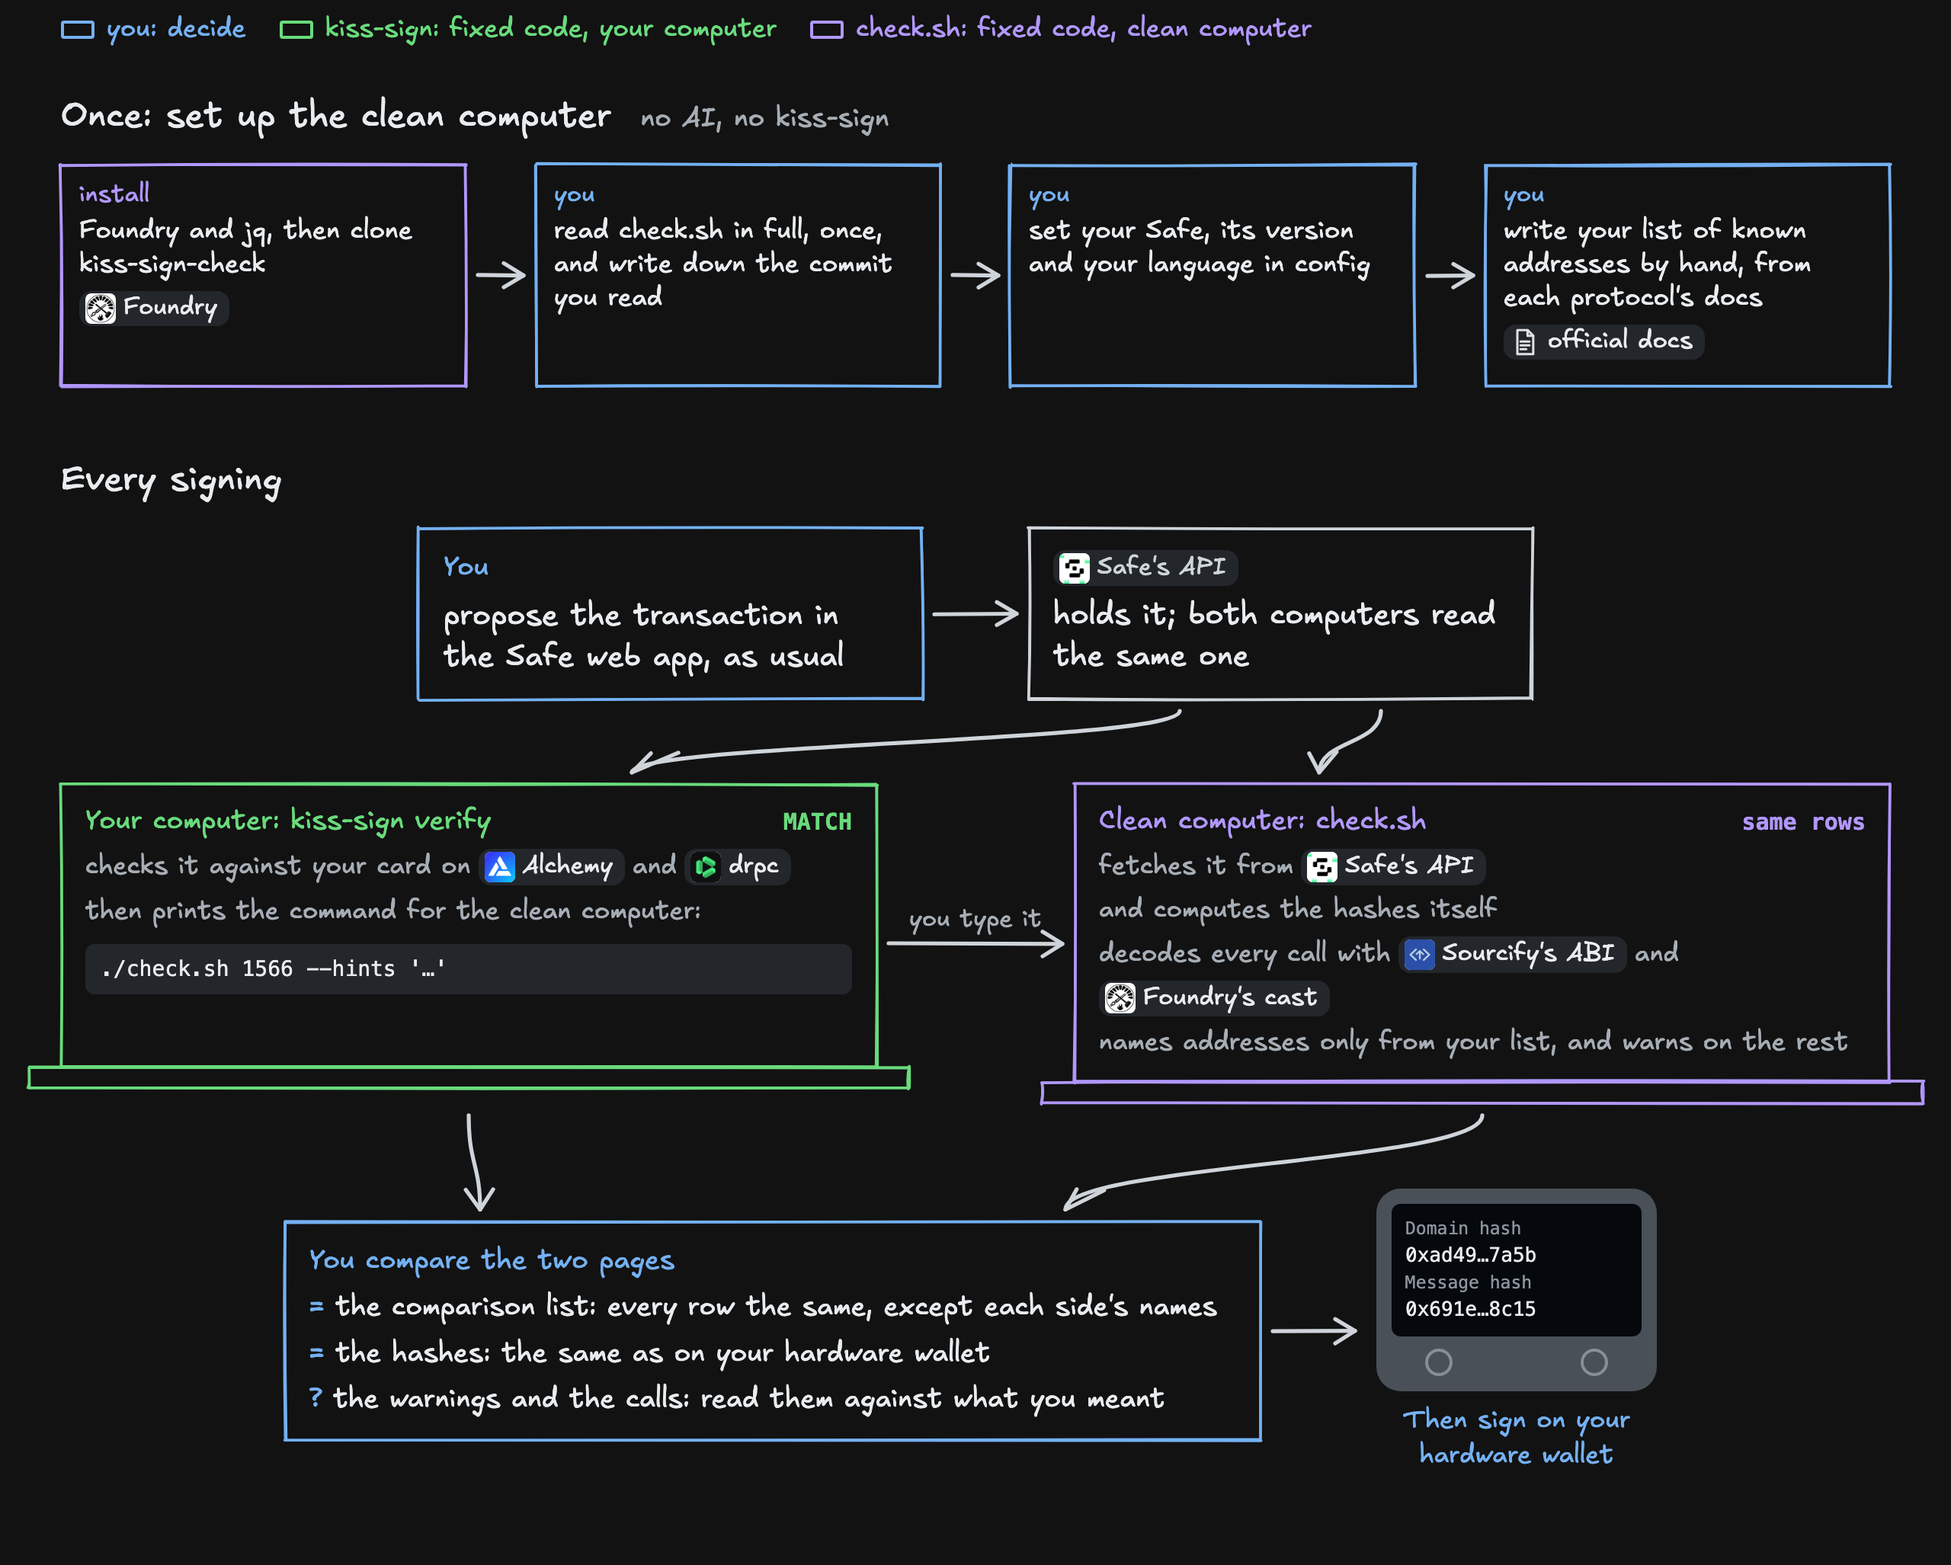
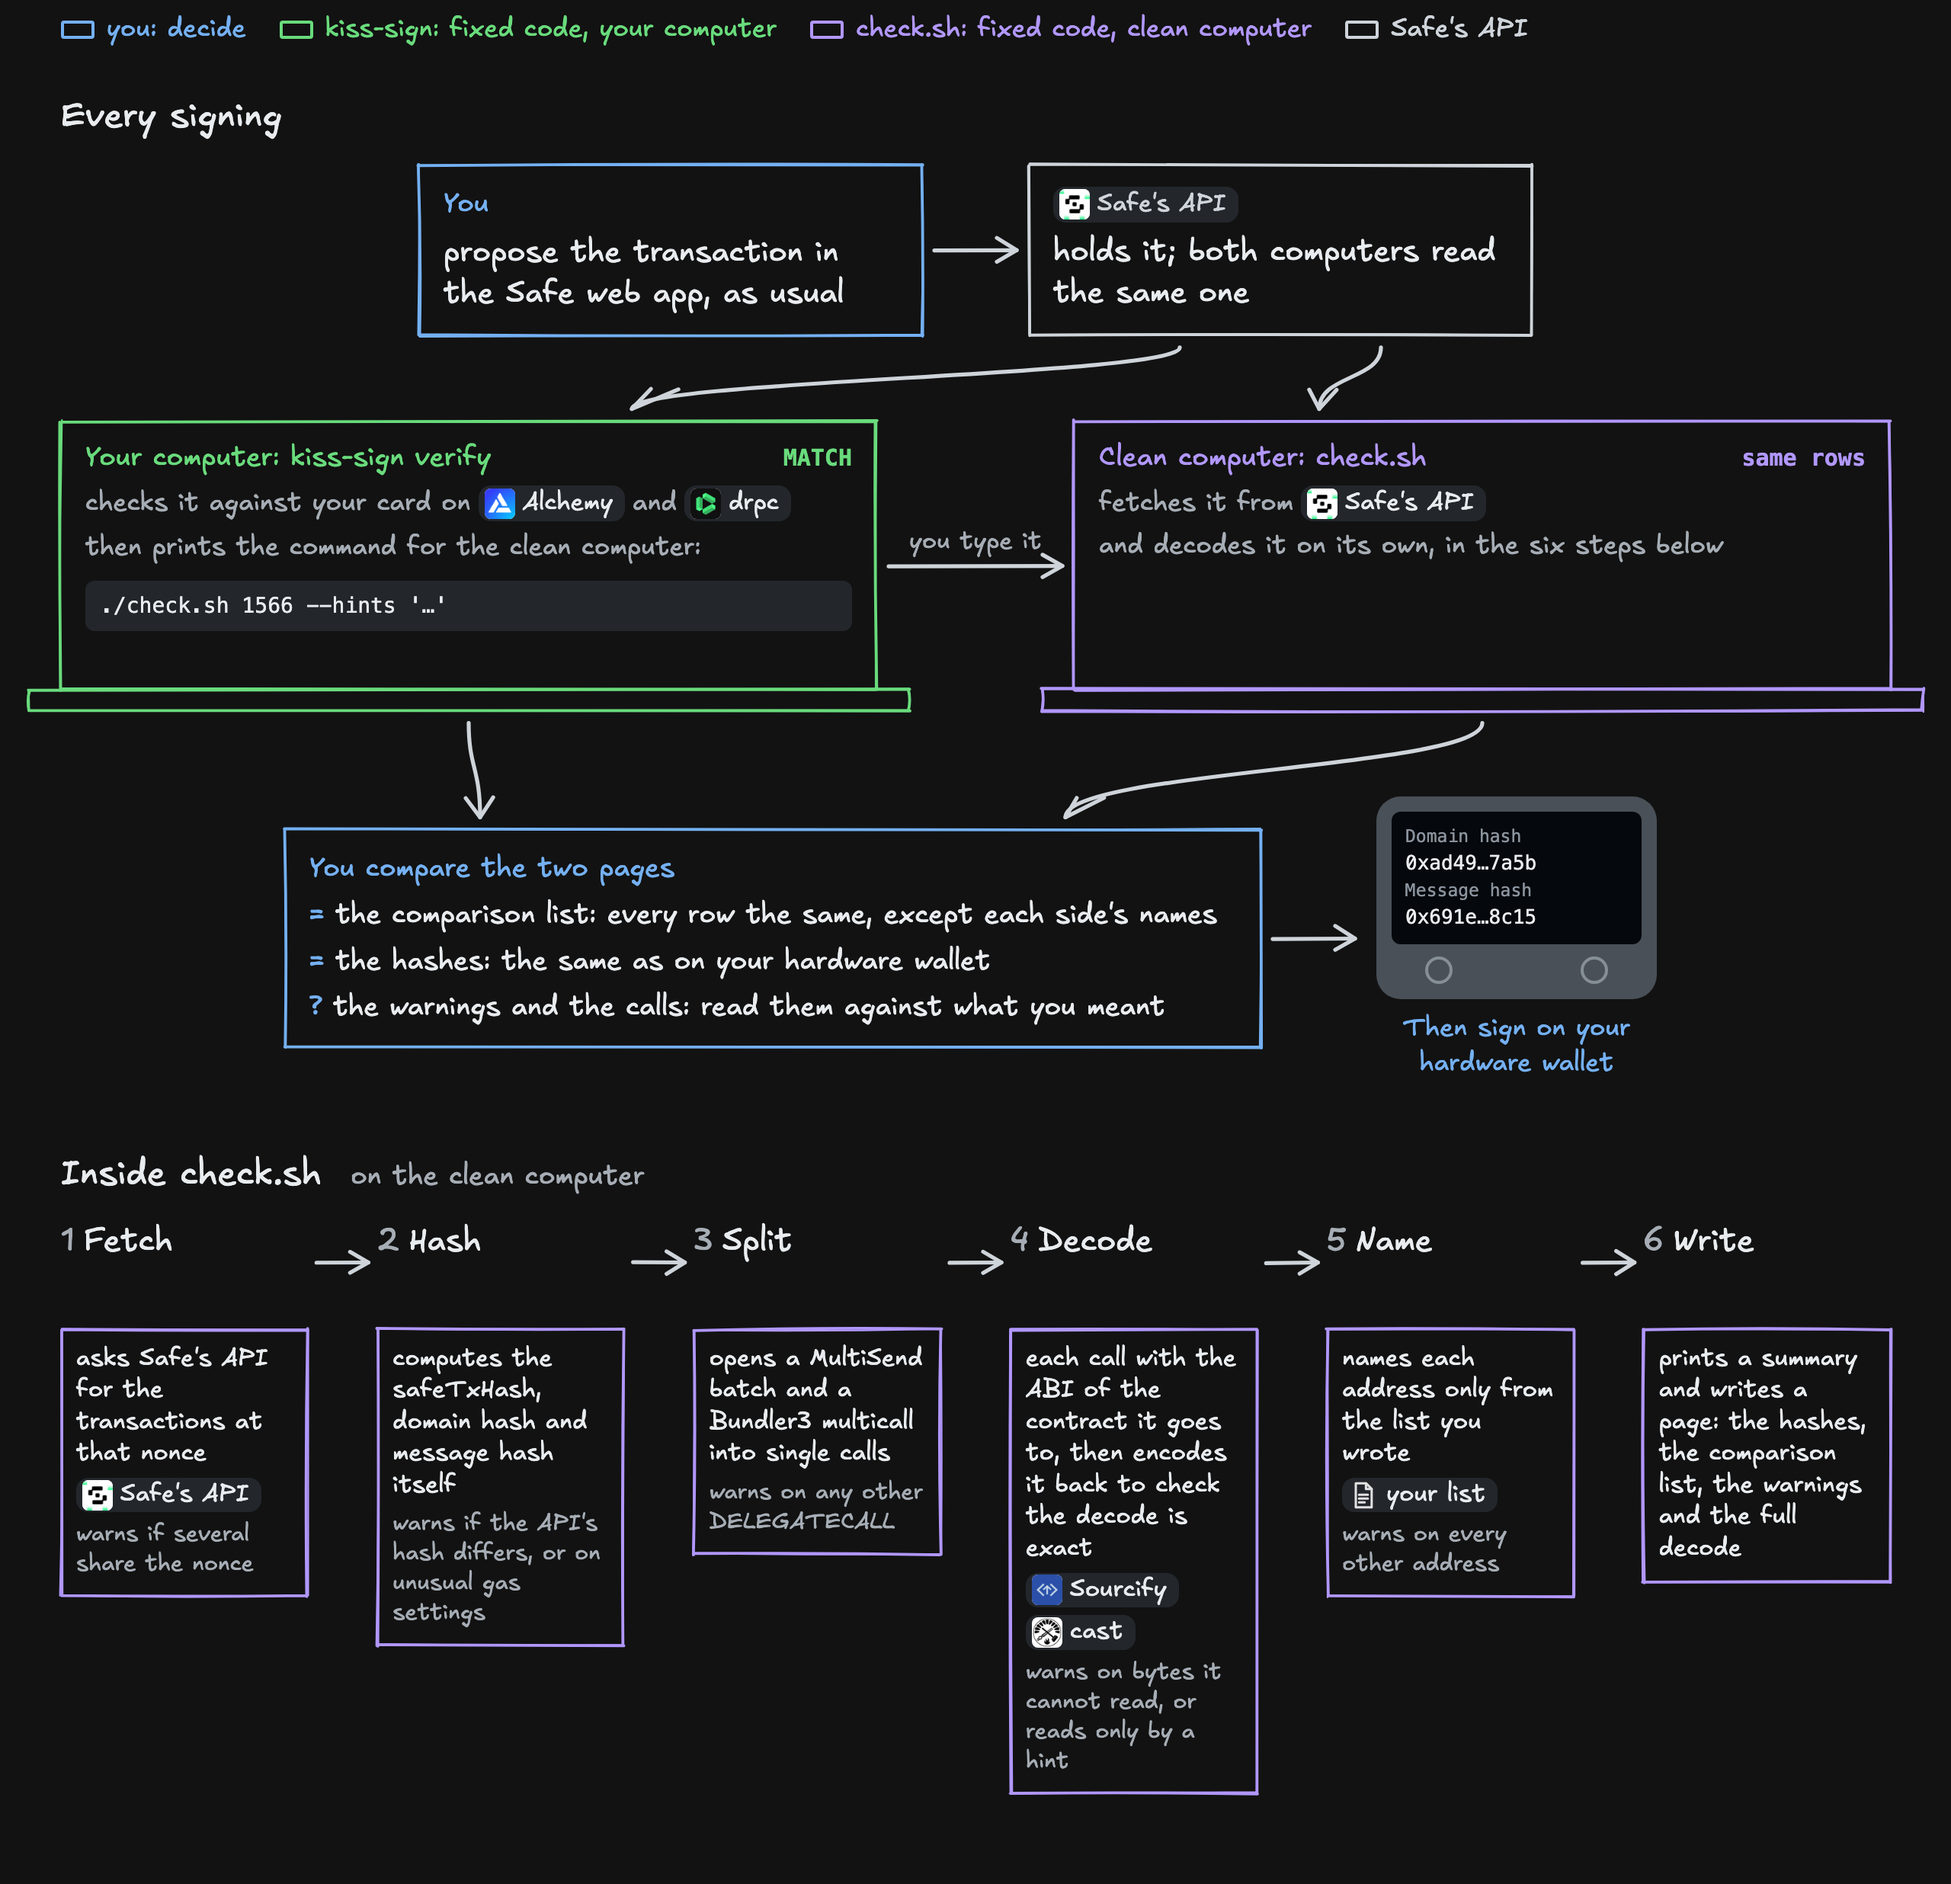
Overview: drop the setup row, add the six steps inside check.sh
Claude-Session: https://claude.ai/code/session_019EpkRikTD1KbjKp9L1wtSS

diff --git a/docs/diagrams/overview.html b/docs/diagrams/overview.html
@@ -40,10 +40,6 @@
   .lg img { width: 20px; height: 20px; border-radius: 4px; background: #fff; object-fit: contain; }
   :root.dark .lg img.mono-logo { filter: invert(1); background: transparent; }
 
-  .setup { display: grid; grid-template-columns: repeat(4, minmax(0, 1fr)); gap: 46px; }
-  .setup .sk { font-size: 17px; line-height: 1.3; padding: 10px 12px 12px; }
-  .setup .who { font-size: 16px; margin-bottom: 2px; }
-  .setup .lg { margin-top: 6px; }
 
   .gap { height: 46px; }
   .top { display: flex; justify-content: center; align-items: center; gap: 70px; }
@@ -62,6 +58,12 @@
   .compare li::before { content: "= "; color: var(--you); }
   .compare li.read::before { content: "? "; }
 
+  .chain { display: grid; grid-template-columns: repeat(6, minmax(0, 1fr)); gap: 46px; }
+  .chain .t { font-size: 21px; line-height: 1.2; min-height: 52px; margin-bottom: 18px; }
+  .chain .n { color: var(--muted); margin-right: 6px; }
+  .chain .sk { font-size: 16px; line-height: 1.3; padding: 9px 10px 11px; display: grid; gap: 5px; }
+  .chain .logos { display: flex; gap: 5px; flex-wrap: wrap; }
+  .out { color: var(--muted); font-size: 15px; }
   .wallet { width: 196px; display: grid; justify-items: center; }
   .dev { width: 184px; background: var(--dev); border-radius: 16px; padding: 10px; }
   .dev .s { background: var(--screen); color: #e9ecef; border-radius: 6px; padding: 8px 9px; font: 13px/1.45 ui-monospace, Menlo, monospace; }
@@ -73,17 +75,8 @@
 <script>if (location.search.includes('dark')) document.documentElement.classList.add('dark');</script>
 </head>
 <body>
-  <div class="legend"><span class="you"><i></i>you: decide</span><span class="prog"><i></i>kiss-sign: fixed code, your computer</span><span class="ind"><i></i>check.sh: fixed code, clean computer</span></div>
+  <div class="legend"><span class="you"><i></i>you: decide</span><span class="prog"><i></i>kiss-sign: fixed code, your computer</span><span class="ind"><i></i>check.sh: fixed code, clean computer</span><span class="plain"><i></i>Safe's API</span></div>
 
-  <h2>Once: set up the clean computer <b>no AI, no kiss-sign</b></h2>
-  <div class="setup">
-    <div class="sk ind" id="u1"><div class="who">install</div><div>Foundry and jq, then clone kiss-sign-check</div><div><span class="lg"><img src="logos/foundry.png" alt="">Foundry</span></div></div>
-    <div class="sk you" id="u2"><div class="who">you</div><div>read check.sh in full, once, and write down the commit you read</div></div>
-    <div class="sk you" id="u3"><div class="who">you</div><div>set your Safe, its version and your language in config</div></div>
-    <div class="sk you" id="u4"><div class="who">you</div><div>write your list of known addresses by hand, from each protocol's docs</div><div><span class="lg"><img class="mono-logo" src="logos/docs.svg" alt="">official docs</span></div></div>
-  </div>
-
-  <div class="gap"></div>
   <h2>Every signing</h2>
   <div class="top">
     <div class="sk you" id="propose"><div class="who">You</div>propose the transaction in the Safe web app, as usual</div>
@@ -99,9 +92,7 @@
     </div>
     <div class="pc ind" id="pc2">
       <div class="sk scr"><div class="who">Clean computer: check.sh<span class="verdict">same rows</span></div>
-        <div class="line"><span class="note">fetches it from</span><span class="lg"><img src="logos/safe.jpg" alt="">Safe's API</span><span class="note">and computes the hashes itself</span></div>
-        <div class="line"><span class="note">decodes every call with</span><span class="lg"><img src="logos/sourcify.jpg" alt="">Sourcify's ABI</span><span class="note">and</span><span class="lg"><img src="logos/foundry.png" alt="">Foundry's cast</span></div>
-        <div class="line"><span class="note">names addresses only from your list, and warns on the rest</span></div></div>
+        <div class="line"><span class="note">fetches it from</span><span class="lg"><img src="logos/safe.jpg" alt="">Safe's API</span><span class="note">and decodes it on its own, in the six steps below</span></div></div>
       <div class="sk base"></div>
     </div>
   </div>
@@ -113,6 +104,17 @@
       <div class="dev"><div class="s"><i>Domain hash</i>0xad49…7a5b<i>Message hash</i>0x691e…8c15</div><div class="b"><span></span><span></span></div></div>
       <p>Then sign on your hardware wallet</p>
     </div>
+  </div>
+
+  <div class="gap"></div>
+  <h2>Inside check.sh <b>on the clean computer</b></h2>
+  <div class="chain">
+    <div id="c1"><div class="t"><span class="n">1</span>Fetch</div><div class="sk ind"><div>asks Safe's API for the transactions at that nonce</div><div class="logos"><span class="lg"><img src="logos/safe.jpg" alt="">Safe's API</span></div><div class="out">warns if several share the nonce</div></div></div>
+    <div id="c2"><div class="t"><span class="n">2</span>Hash</div><div class="sk ind"><div>computes the safeTxHash, domain hash and message hash itself</div><div class="out">warns if the API's hash differs, or on unusual gas settings</div></div></div>
+    <div id="c3"><div class="t"><span class="n">3</span>Split</div><div class="sk ind"><div>opens a MultiSend batch and a Bundler3 multicall into single calls</div><div class="out">warns on any other DELEGATECALL</div></div></div>
+    <div id="c4"><div class="t"><span class="n">4</span>Decode</div><div class="sk ind"><div>each call with the ABI of the contract it goes to, then encodes it back to check the decode is exact</div><div class="logos"><span class="lg"><img src="logos/sourcify.jpg" alt="">Sourcify</span><span class="lg"><img src="logos/foundry.png" alt="">cast</span></div><div class="out">warns on bytes it cannot read, or reads only by a hint</div></div></div>
+    <div id="c5"><div class="t"><span class="n">5</span>Name</div><div class="sk ind"><div>names each address only from the list you wrote</div><div class="logos"><span class="lg"><img class="mono-logo" src="logos/docs.svg" alt="">your list</span></div><div class="out">warns on every other address</div></div></div>
+    <div id="c6"><div class="t"><span class="n">6</span>Write</div><div class="sk ind"><div>prints a summary and writes a page: the hashes, the comparison list, the warnings and the full decode</div></div></div>
   </div>
 
 <script>
@@ -159,7 +161,6 @@ Promise.all([document.fonts.ready, new Promise((ok) => (document.readyState === 
     const dx = (x2 - x1) * 0.06;
     draw(`M${x2 - 9 - dx} ${y2 - 13 + rnd()} L${x2} ${y2} L${x2 + 9 - dx} ${y2 - 13 + rnd()}`, ink, 2.6);
   };
-  [['u1', 'u2'], ['u2', 'u3'], ['u3', 'u4']].forEach(([a, b]) => right(a, b));
   right('propose', 'api');
   down('api', 'pc1', 0.3, 0.7);
   down('api', 'pc2', 0.7, 0.3);
@@ -167,6 +168,12 @@ Promise.all([document.fonts.ready, new Promise((ok) => (document.readyState === 
   down('pc1', 'compare', 0.5, 0.2);
   down('pc2', 'compare', 0.5, 0.8);
   right('compare', 'wallet');
+  for (let i = 1; i < 6; i++) {
+    const A = rect('c' + i), B = rect('c' + (i + 1)), t = document.querySelector('#c' + i + ' .t').getBoundingClientRect();
+    const x1 = A.r + 6, x2 = B.l - 6, y = t.top + t.height / 2 + scrollY, s = 12;
+    draw(`M${x1} ${y + rnd()} L${x2} ${y}`, ink, 2.6);
+    draw(`M${x2 - s} ${y - s * 0.6 + rnd()} L${x2} ${y} L${x2 - s} ${y + s * 0.6 + rnd()}`, ink, 2.6);
+  }
   document.body.dataset.height = Math.ceil(document.body.scrollHeight);
 });
 </script>
